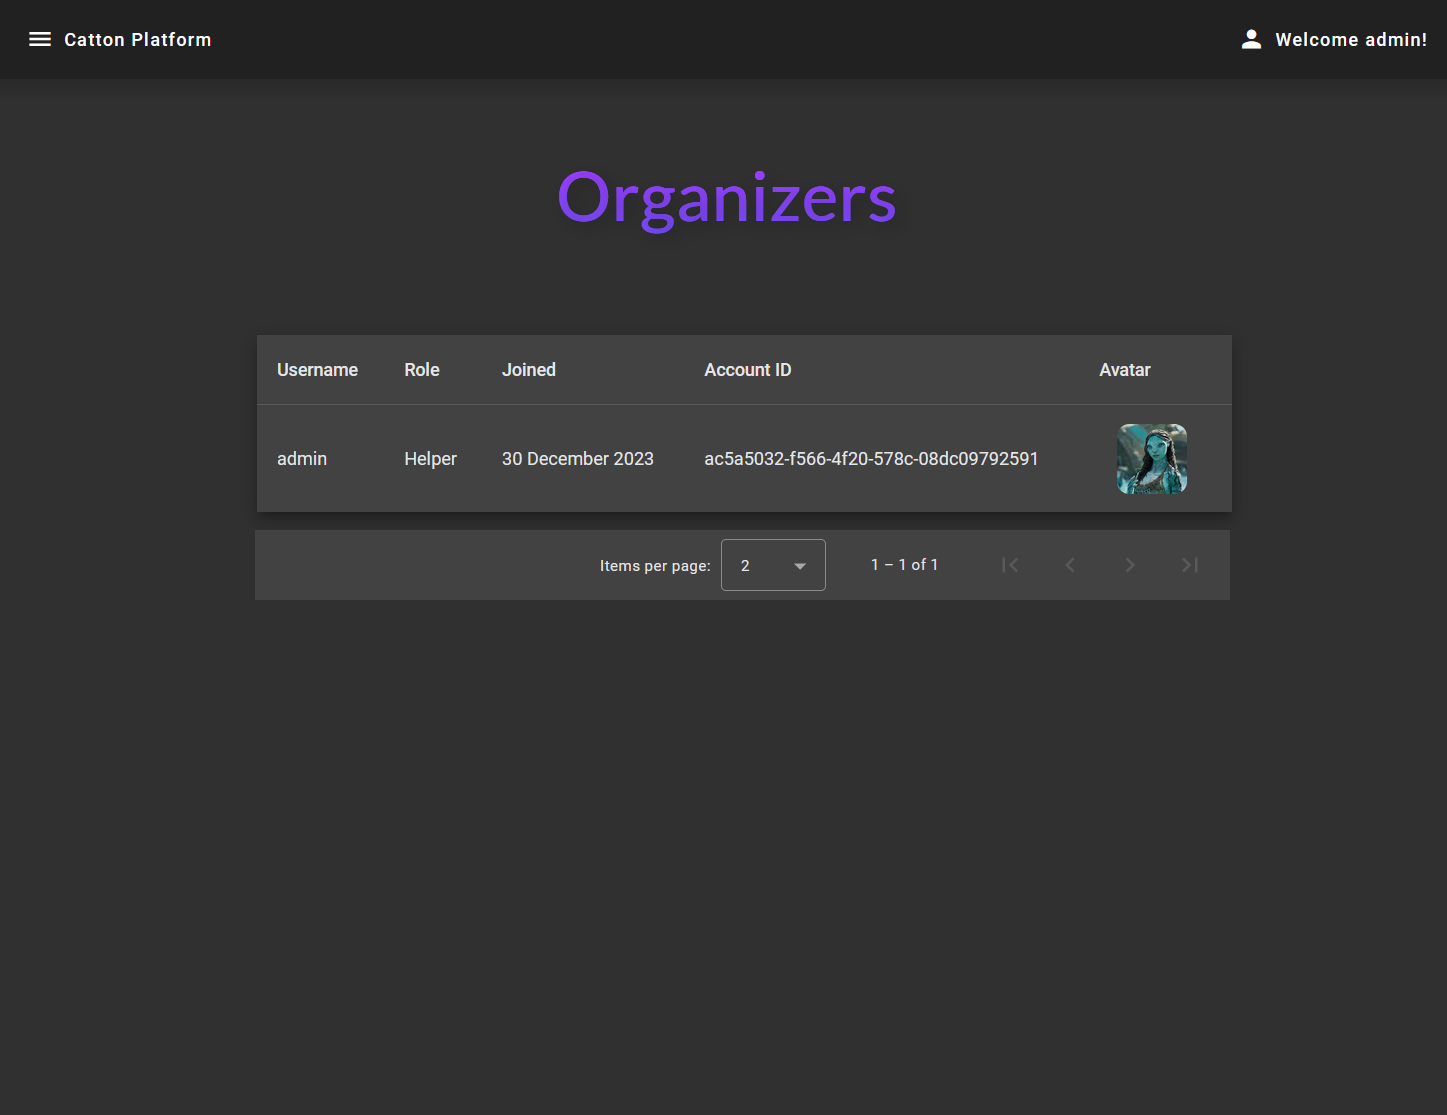
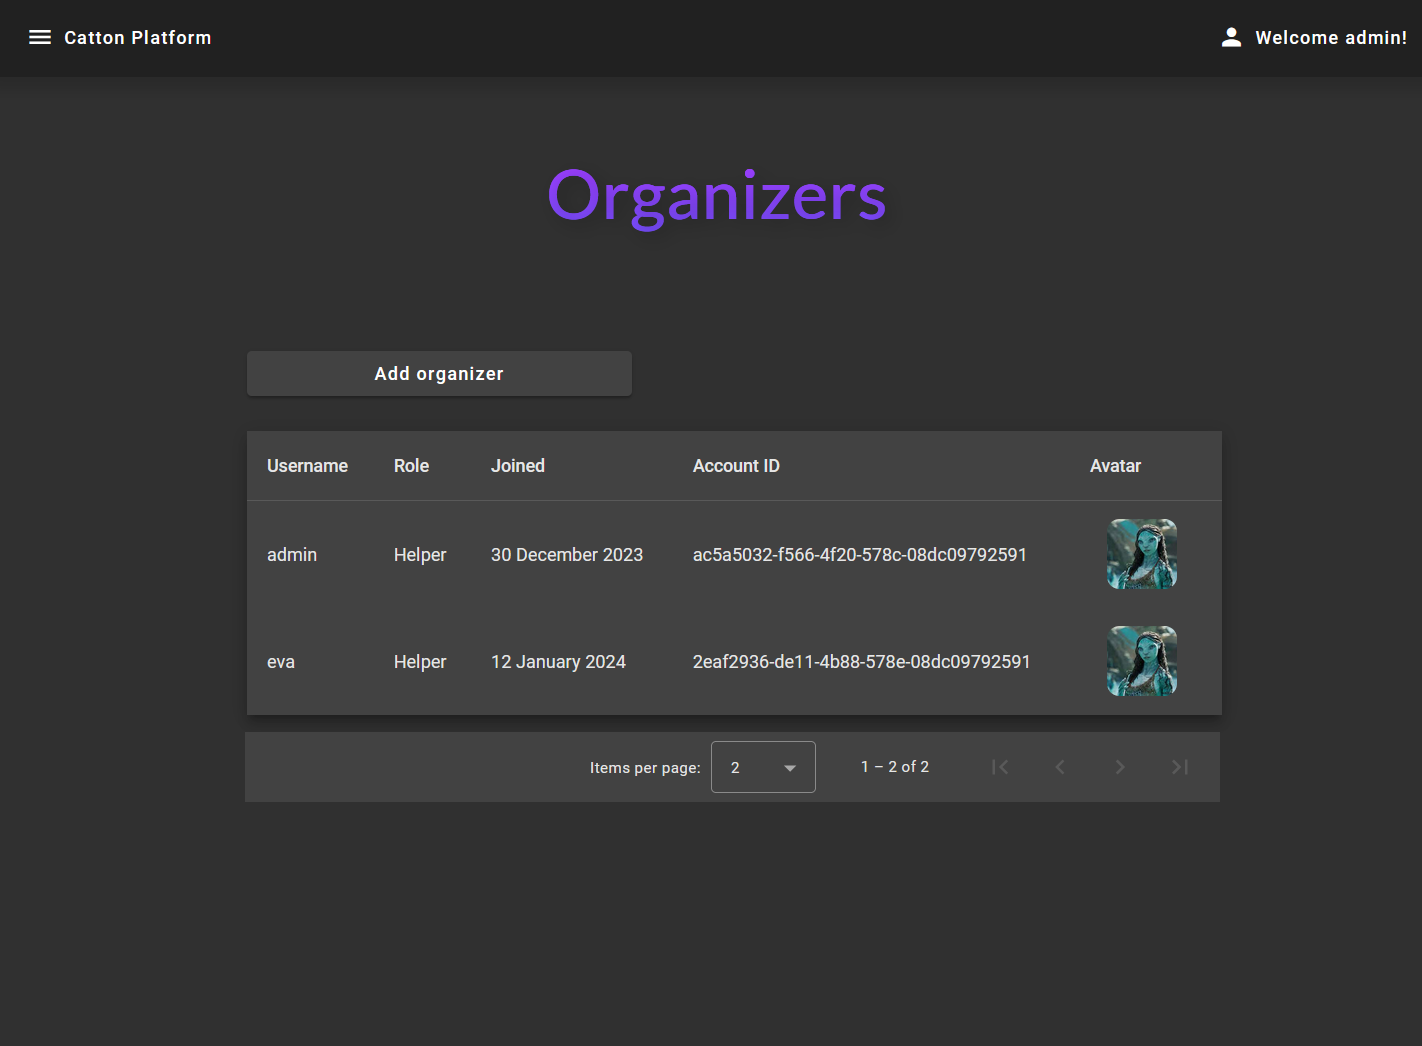
Add Organizer Edit feature and UI
This commit adds the functionality for editing Organizer information. It includes a new Organizer Edit component with corresponding HTML, TypeScript, and SCSS files. This feature allows users to navigate to the Organizer Edit page through the Organizer Details component. Relevant updates to routing and navigation services have been made to support this feature.

diff --git a/Frontend/frontend/src/app/components/organizer-edit/organizer-edit.component.ts b/Frontend/frontend/src/app/components/organizer-edit/organizer-edit.component.ts
@@ -1,0 +1,83 @@
+import { Component, OnInit } from '@angular/core';
+import { FormBuilder, FormGroup, Validators } from "@angular/forms";
+import {
+  OrganizerDto,
+  OrganizerService,
+  OrganizerUpdateDto,
+  TicketTemplateService
+} from "../../services/generated-api/conventions";
+import { ActivatedRoute } from "@angular/router";
+import { NavigationService } from "../../services/navigation.service";
+
+export enum Roles {
+  Guest = 'Guest',
+  Owner = 'Owner',
+  Helper = 'Helper',
+  Moderator = 'Moderator',
+  Announcer = 'Announcer',
+  Administrator = 'Administrator',
+}
+
+@Component({
+  selector: 'app-organizer-edit',
+  templateUrl: './organizer-edit.component.html',
+  styleUrls: ['./organizer-edit.component.scss']
+})
+export class OrganizerEditComponent implements OnInit {
+  private accountId!: string;
+  private conventionId!: string;
+  organizerForm!: FormGroup;
+  roles!: string[];
+  organzier! : OrganizerDto;
+
+  constructor(
+    private fb: FormBuilder,
+    private organizerService: OrganizerService,
+    private route: ActivatedRoute,
+    private navigationService: NavigationService
+  ) {
+  }
+
+  ngOnInit() {
+    this.route.params.subscribe(params => {
+      this.conventionId = params['conventionId'];
+      this.accountId = params['accountId'];
+      this.loadOrganizer(this.conventionId, this.accountId);
+    });
+    this.initForm();
+  }
+
+  private loadOrganizer(conventionId: string, accountId: string) {
+    return this.organizerService.apiConventionsConventionIdOrganizersOrganizerIdGet(conventionId, accountId)
+      .subscribe(oprganizerDto => {
+        this.organizerForm.patchValue(oprganizerDto);
+        this.organzier = oprganizerDto;
+      });
+  }
+
+  private initForm() {
+    this.roles = Object.values(Roles);
+
+    this.organizerForm = this.fb.group({
+      role: [Roles.Guest, Validators.required],
+    });
+  }
+
+  onSubmit() {
+    if (!this.organizerForm.valid) {
+      return;
+    }
+    console.log(this.organizerForm.value);
+
+    const organizerUpdateDto: OrganizerUpdateDto = {
+      role: this.organizerForm.value.role
+    }
+
+    this.organizerService.apiConventionsConventionIdOrganizersOrganizerIdPut(this.conventionId, this.accountId, this.organizerForm.value)
+      .subscribe(async () => {
+        await this.navigationService.toOrganizers();
+      });
+  }
+
+  protected readonly Roles = Roles;
+}

diff --git a/Frontend/frontend/src/app/app-routing.module.ts b/Frontend/frontend/src/app/app-routing.module.ts
@@ -28,6 +28,7 @@ import {JwtHelperService} from "@auth0/angular-jwt";
 import {TicketTemplateEditComponent} from "./components/ticket-template-edit/ticket-template-edit.component";
 import {OrganizerDetailsComponent} from "./components/organizer-details/organizer-details.component";
 import {OrganizerCreateComponent} from "./components/organizer-create/organizer-create.component";
+import {OrganizerEditComponent} from "./components/organizer-edit/organizer-edit.component";
 
 const guard: CanActivateFn = (
   route: ActivatedRouteSnapshot,
@@ -51,6 +52,7 @@ const SECURE_ROUTES_CONVENTION_SELECTED = [
   {path: '', component: MainMenuComponent},
   {path: 'organizers', component: OrganizersComponent},
   {path: 'organizers/create', component: OrganizerCreateComponent},
+  {path: 'organizers/edit/:accountId', component: OrganizerEditComponent},
   {path: 'organizers/:accountId', component: OrganizerDetailsComponent},
   {path: 'attendees', component: AttendeesComponent},
   {path: 'attendees/:accountId', component: AttendeeDetailsComponent},

diff --git a/Frontend/frontend/src/app/app.module.ts b/Frontend/frontend/src/app/app.module.ts
@@ -69,6 +69,7 @@ import { TicketTemplateEditComponent } from './components/ticket-template-edit/t
 import { OrganizerDetailsComponent } from './components/organizer-details/organizer-details.component';
 import { OrganizerDeleteConfirmDialogComponent } from './components/organizer-details/organizer-delete-confirm-dialog/organizer-delete-confirm-dialog.component';
 import { OrganizerCreateComponent } from './components/organizer-create/organizer-create.component';
+import { OrganizerEditComponent } from './components/organizer-edit/organizer-edit.component';
 
 const RegisterBackendConfiguration = (authService: AuthService) => new AccountConfiguration(
   {
@@ -113,6 +114,7 @@ const RegisterBackendConfiguration = (authService: AuthService) => new AccountCo
     OrganizerDetailsComponent,
     OrganizerDeleteConfirmDialogComponent,
     OrganizerCreateComponent,
+    OrganizerEditComponent,
   ],
   imports: [
     BrowserModule,

diff --git a/Frontend/frontend/src/app/components/organizer-edit/organizer-edit.component.html b/Frontend/frontend/src/app/components/organizer-edit/organizer-edit.component.html
@@ -1,0 +1,22 @@
+<h1 class="form-header">Edit Organizer</h1>
+
+
+<h2>Account Username</h2>
+<p>{{organzier.accountUsername}}</p>
+<h2>Account ID</h2>
+<p>{{organzier.accountId}}</p>
+
+<form [formGroup]="organizerForm" (ngSubmit)="onSubmit()" class="entity-form">
+  <mat-form-field>
+    <mat-label>Role</mat-label>
+    <mat-select id="role" formControlName="role">
+      <mat-option *ngFor="let role of roles" [value]="role">{{ role }}</mat-option>
+    </mat-select>
+  </mat-form-field>
+
+  <div class="submit-button-container">
+    <button mat-raised-button color="primary" type="submit" [disabled]="!organizerForm.valid"
+            class="submit-button">Submit
+    </button>
+  </div>
+</form>

diff --git a/Frontend/frontend/src/app/components/organizer-edit/organizer-edit.component.spec.ts b/Frontend/frontend/src/app/components/organizer-edit/organizer-edit.component.spec.ts
@@ -1,0 +1,23 @@
+import { ComponentFixture, TestBed } from '@angular/core/testing';
+
+import { OrganizerEditComponent } from './organizer-edit.component';
+
+describe('OrganizerEditComponent', () => {
+  let component: OrganizerEditComponent;
+  let fixture: ComponentFixture<OrganizerEditComponent>;
+
+  beforeEach(async () => {
+    await TestBed.configureTestingModule({
+      declarations: [ OrganizerEditComponent ]
+    })
+    .compileComponents();
+
+    fixture = TestBed.createComponent(OrganizerEditComponent);
+    component = fixture.componentInstance;
+    fixture.detectChanges();
+  });
+
+  it('should create', () => {
+    expect(component).toBeTruthy();
+  });
+});

diff --git a/Frontend/frontend/src/app/services/navigation.service.ts b/Frontend/frontend/src/app/services/navigation.service.ts
@@ -35,6 +35,11 @@ export class NavigationService {
     await this.router.navigate([`c/${conventionId}/organizers/create`]);
   }
 
+  async toEditOrganizer(accountId : string) {
+    const conventionId = this.getParam('conventionId')
+    await this.router.navigate([`c/${conventionId}/organizers/edit/${accountId}`]);
+  }
+
   public async toTickets() {
     const conventionId = this.getParam('conventionId')
     return await this.router.navigate([`c/${conventionId}/tickets`]);

diff --git a/Frontend/frontend/src/app/components/organizer-details/organizer-details.component.html b/Frontend/frontend/src/app/components/organizer-details/organizer-details.component.html
@@ -25,7 +25,7 @@
           Remove from the convention
         </button>
         <button mat-raised-button class="details-action-button"
-                (click)="console.log('Not implemented')">
+                (click)="navigateToEditOrganizer()">
           Edit
         </button>
       </div>

diff --git a/Frontend/frontend/src/app/components/organizer-details/organizer-details.component.ts b/Frontend/frontend/src/app/components/organizer-details/organizer-details.component.ts
@@ -65,4 +65,8 @@ export class OrganizerDetailsComponent {
   }
 
   protected readonly console = console;
+
+  async navigateToEditOrganizer() {
+    await this.navigationService.toEditOrganizer(this.accountId);
+  }
 }

diff --git a/Frontend/frontend/src/app/components/organizer-edit/organizer-edit.component.scss b/Frontend/frontend/src/app/components/organizer-edit/organizer-edit.component.scss
@@ -1,0 +1,1 @@
+@import "src/styles/styles";

diff --git a/Documentation/User Documentation/Organizers.md b/Documentation/User Documentation/Organizers.md
@@ -2,7 +2,14 @@
 
 In the organizers page, you can create, edit, and delete organizers.
 * Click on any entry to see details, edit, or delete it.
-* Click create to navigate to the create ticket template form.
+* Click "Add organizer" to navigate to the create organizer form.
 * You can use pagination panel at the bottom of the page to navigate between pages.
-
 ![[organizers_list.png]]
+
+
+`/c/<convention ID>/organizers/<account ID>
+In the organizer details page.
+* Click on the edit button to navigate to the edit ticket form.
+* Click on the delete button to delete the organizer.
+
+![[organizer_details.png]]
